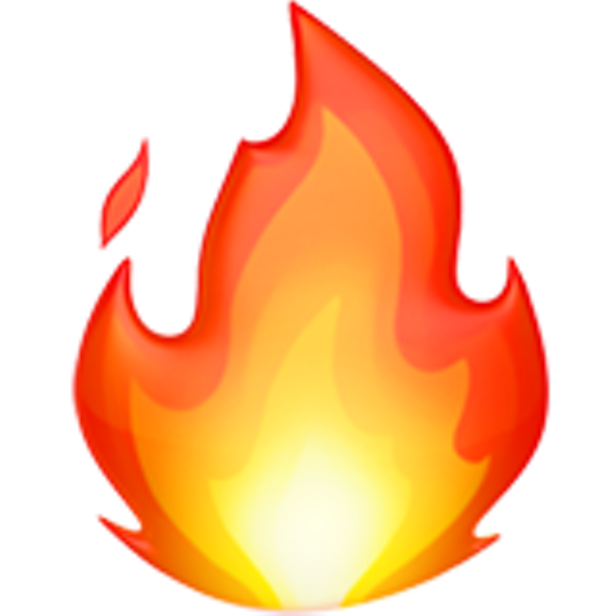
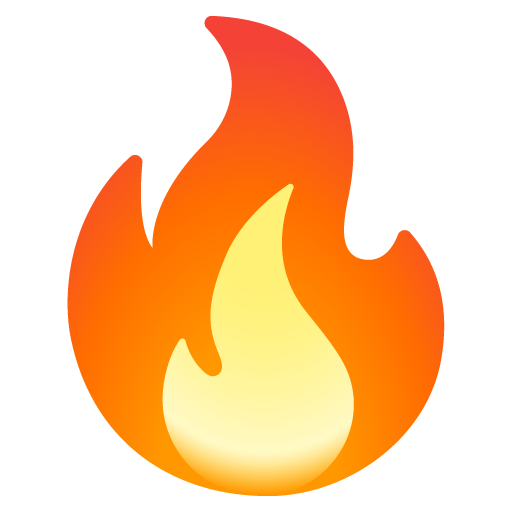
added licenses; updated emojis

diff --git a/LICENSES.md b/LICENSES.md
@@ -1,0 +1,346 @@
+# [CustomTkinter](https://github.com/TomSchimansky/CustomTkinter)
+```
+MIT License
+
+Copyright (c) 2023 Tom Schimansky
+
+Permission is hereby granted, free of charge, to any person obtaining a copy
+of this software and associated documentation files (the "Software"), to deal
+in the Software without restriction, including without limitation the rights
+to use, copy, modify, merge, publish, distribute, sublicense, and/or sell
+copies of the Software, and to permit persons to whom the Software is
+furnished to do so, subject to the following conditions:
+
+The above copyright notice and this permission notice shall be included in all
+copies or substantial portions of the Software.
+
+THE SOFTWARE IS PROVIDED "AS IS", WITHOUT WARRANTY OF ANY KIND, EXPRESS OR
+IMPLIED, INCLUDING BUT NOT LIMITED TO THE WARRANTIES OF MERCHANTABILITY,
+FITNESS FOR A PARTICULAR PURPOSE AND NONINFRINGEMENT. IN NO EVENT SHALL THE
+AUTHORS OR COPYRIGHT HOLDERS BE LIABLE FOR ANY CLAIM, DAMAGES OR OTHER
+LIABILITY, WHETHER IN AN ACTION OF CONTRACT, TORT OR OTHERWISE, ARISING FROM,
+OUT OF OR IN CONNECTION WITH THE SOFTWARE OR THE USE OR OTHER DEALINGS IN THE
+SOFTWARE.
+```
+
+# [Pillow](https://github.com/python-pillow/Pillow)
+```
+The Python Imaging Library (PIL) is
+
+    Copyright © 1997-2011 by Secret Labs AB
+    Copyright © 1995-2011 by Fredrik Lundh and contributors
+
+Pillow is the friendly PIL fork. It is
+
+    Copyright © 2010 by Jeffrey A. Clark and contributors
+
+Like PIL, Pillow is licensed under the open source MIT-CMU License:
+
+By obtaining, using, and/or copying this software and/or its associated
+documentation, you agree that you have read, understood, and will comply
+with the following terms and conditions:
+
+Permission to use, copy, modify and distribute this software and its
+documentation for any purpose and without fee is hereby granted,
+provided that the above copyright notice appears in all copies, and that
+both that copyright notice and this permission notice appear in supporting
+documentation, and that the name of Secret Labs AB or the author not be
+used in advertising or publicity pertaining to distribution of the software
+without specific, written prior permission.
+
+SECRET LABS AB AND THE AUTHOR DISCLAIMS ALL WARRANTIES WITH REGARD TO THIS
+SOFTWARE, INCLUDING ALL IMPLIED WARRANTIES OF MERCHANTABILITY AND FITNESS.
+IN NO EVENT SHALL SECRET LABS AB OR THE AUTHOR BE LIABLE FOR ANY SPECIAL,
+INDIRECT OR CONSEQUENTIAL DAMAGES OR ANY DAMAGES WHATSOEVER RESULTING FROM
+LOSS OF USE, DATA OR PROFITS, WHETHER IN AN ACTION OF CONTRACT, NEGLIGENCE
+OR OTHER TORTIOUS ACTION, ARISING OUT OF OR IN CONNECTION WITH THE USE OR
+PERFORMANCE OF THIS SOFTWARE.
+```
+
+# [Psutil](https://github.com/giampaolo/psutil)
+```
+BSD 3-Clause License
+
+Copyright (c) 2009, Jay Loden, Dave Daeschler, Giampaolo Rodola
+All rights reserved.
+
+Redistribution and use in source and binary forms, with or without modification,
+are permitted provided that the following conditions are met:
+
+ * Redistributions of source code must retain the above copyright notice, this
+   list of conditions and the following disclaimer.
+
+ * Redistributions in binary form must reproduce the above copyright notice,
+   this list of conditions and the following disclaimer in the documentation
+   and/or other materials provided with the distribution.
+
+ * Neither the name of the psutil authors nor the names of its contributors
+   may be used to endorse or promote products derived from this software without
+   specific prior written permission.
+
+THIS SOFTWARE IS PROVIDED BY THE COPYRIGHT HOLDERS AND CONTRIBUTORS "AS IS" AND
+ANY EXPRESS OR IMPLIED WARRANTIES, INCLUDING, BUT NOT LIMITED TO, THE IMPLIED
+WARRANTIES OF MERCHANTABILITY AND FITNESS FOR A PARTICULAR PURPOSE ARE
+DISCLAIMED. IN NO EVENT SHALL THE COPYRIGHT OWNER OR CONTRIBUTORS BE LIABLE FOR
+ANY DIRECT, INDIRECT, INCIDENTAL, SPECIAL, EXEMPLARY, OR CONSEQUENTIAL DAMAGES
+(INCLUDING, BUT NOT LIMITED TO, PROCUREMENT OF SUBSTITUTE GOODS OR SERVICES;
+LOSS OF USE, DATA, OR PROFITS; OR BUSINESS INTERRUPTION) HOWEVER CAUSED AND ON
+ANY THEORY OF LIABILITY, WHETHER IN CONTRACT, STRICT LIABILITY, OR TORT
+(INCLUDING NEGLIGENCE OR OTHERWISE) ARISING IN ANY WAY OUT OF THE USE OF THIS
+SOFTWARE, EVEN IF ADVISED OF THE POSSIBILITY OF SUCH DAMAGE.
+```
+
+# [Opencv Python](https://github.com/opencv/opencv-python/)
+```
+MIT License
+
+Copyright (c) Olli-Pekka Heinisuo
+
+Permission is hereby granted, free of charge, to any person obtaining a copy
+of this software and associated documentation files (the "Software"), to deal
+in the Software without restriction, including without limitation the rights
+to use, copy, modify, merge, publish, distribute, sublicense, and/or sell
+copies of the Software, and to permit persons to whom the Software is
+furnished to do so, subject to the following conditions:
+
+The above copyright notice and this permission notice shall be included in all
+copies or substantial portions of the Software.
+
+THE SOFTWARE IS PROVIDED "AS IS", WITHOUT WARRANTY OF ANY KIND, EXPRESS OR
+IMPLIED, INCLUDING BUT NOT LIMITED TO THE WARRANTIES OF MERCHANTABILITY,
+FITNESS FOR A PARTICULAR PURPOSE AND NONINFRINGEMENT. IN NO EVENT SHALL THE
+AUTHORS OR COPYRIGHT HOLDERS BE LIABLE FOR ANY CLAIM, DAMAGES OR OTHER
+LIABILITY, WHETHER IN AN ACTION OF CONTRACT, TORT OR OTHERWISE, ARISING FROM,
+OUT OF OR IN CONNECTION WITH THE SOFTWARE OR THE USE OR OTHER DEALINGS IN THE
+SOFTWARE.
+```
+
+# [Face Recognition](https://github.com/ageitgey/face_recognition)
+```
+MIT License
+
+Copyright (c) 2021, Adam Geitgey
+
+Permission is hereby granted, free of charge, to any person obtaining a copy of this software and associated documentation files (the "Software"), to deal in the Software without restriction, including without limitation the rights to use, copy, modify, merge, publish, distribute, sublicense, and/or sell copies of the Software, and to permit persons to whom the Software is furnished to do so, subject to the following conditions:
+
+The above copyright notice and this permission notice shall be included in all copies or substantial portions of the Software.
+
+THE SOFTWARE IS PROVIDED "AS IS", WITHOUT WARRANTY OF ANY KIND, EXPRESS OR IMPLIED, INCLUDING BUT NOT LIMITED TO THE WARRANTIES OF MERCHANTABILITY, FITNESS FOR A PARTICULAR PURPOSE AND NONINFRINGEMENT. IN NO EVENT SHALL THE AUTHORS OR COPYRIGHT HOLDERS BE LIABLE FOR ANY CLAIM, DAMAGES OR OTHER LIABILITY, WHETHER IN AN ACTION OF CONTRACT, TORT OR OTHERWISE, ARISING FROM, OUT OF OR IN CONNECTION WITH THE SOFTWARE OR THE USE OR OTHER DEALINGS IN THE SOFTWARE.
+```
+
+# [Pyfiglet](https://github.com/pwaller/pyfiglet)
+```
+Copyright © 2007-2018
+  Christopher Jones <cjones@insub.org>
+  Stefano Rivera <stefano@rivera.za.net>
+  Peter Waller <p@pwaller.net>
+  And various contributors (see git history).
+
+Permission is hereby granted, free of charge, to any person obtaining a copy of
+this software and associated documentation files (the “Software”), to deal in
+the Software without restriction, including without limitation the rights to
+use, copy, modify, merge, publish, distribute, sublicense, and/or sell copies
+of the Software, and to permit persons to whom the Software is furnished to do
+so, subject to the following conditions:
+
+The above copyright notice and this permission notice shall be included in all
+copies or substantial portions of the Software.
+
+THE SOFTWARE IS PROVIDED “AS IS”, WITHOUT WARRANTY OF ANY KIND, EXPRESS OR
+IMPLIED, INCLUDING BUT NOT LIMITED TO THE WARRANTIES OF MERCHANTABILITY,
+FITNESS FOR A PARTICULAR PURPOSE AND NONINFRINGEMENT. IN NO EVENT SHALL THE
+AUTHORS OR COPYRIGHT HOLDERS BE LIABLE FOR ANY CLAIM, DAMAGES OR OTHER
+LIABILITY, WHETHER IN AN ACTION OF CONTRACT, TORT OR OTHERWISE, ARISING FROM,
+OUT OF OR IN CONNECTION WITH THE SOFTWARE OR THE USE OR OTHER
+DEALINGS IN THE SOFTWARE.
+```
+
+# [Sqlalchemy](https://github.com/sqlalchemy/sqlalchemy)
+```
+Copyright 2005-2025 SQLAlchemy authors and contributors <see AUTHORS file>.
+
+Permission is hereby granted, free of charge, to any person obtaining a copy of
+this software and associated documentation files (the "Software"), to deal in
+the Software without restriction, including without limitation the rights to
+use, copy, modify, merge, publish, distribute, sublicense, and/or sell copies
+of the Software, and to permit persons to whom the Software is furnished to do
+so, subject to the following conditions:
+
+The above copyright notice and this permission notice shall be included in all
+copies or substantial portions of the Software.
+
+THE SOFTWARE IS PROVIDED "AS IS", WITHOUT WARRANTY OF ANY KIND, EXPRESS OR
+IMPLIED, INCLUDING BUT NOT LIMITED TO THE WARRANTIES OF MERCHANTABILITY,
+FITNESS FOR A PARTICULAR PURPOSE AND NONINFRINGEMENT. IN NO EVENT SHALL THE
+AUTHORS OR COPYRIGHT HOLDERS BE LIABLE FOR ANY CLAIM, DAMAGES OR OTHER
+LIABILITY, WHETHER IN AN ACTION OF CONTRACT, TORT OR OTHERWISE, ARISING FROM,
+OUT OF OR IN CONNECTION WITH THE SOFTWARE OR THE USE OR OTHER DEALINGS IN THE
+SOFTWARE.
+```
+
+# [Psycopg](https://github.com/psycopg/psycopg2)
+```
+psycopg2 and the LGPL
+---------------------
+
+psycopg2 is free software: you can redistribute it and/or modify it
+under the terms of the GNU Lesser General Public License as published
+by the Free Software Foundation, either version 3 of the License, or
+(at your option) any later version.
+
+psycopg2 is distributed in the hope that it will be useful, but WITHOUT
+ANY WARRANTY; without even the implied warranty of MERCHANTABILITY or
+FITNESS FOR A PARTICULAR PURPOSE.  See the GNU Lesser General Public
+License for more details.
+
+In addition, as a special exception, the copyright holders give
+permission to link this program with the OpenSSL library (or with
+modified versions of OpenSSL that use the same license as OpenSSL),
+and distribute linked combinations including the two.
+
+You must obey the GNU Lesser General Public License in all respects for
+all of the code used other than OpenSSL. If you modify file(s) with this
+exception, you may extend this exception to your version of the file(s),
+but you are not obligated to do so. If you do not wish to do so, delete
+this exception statement from your version. If you delete this exception
+statement from all source files in the program, then also delete it here.
+
+You should have received a copy of the GNU Lesser General Public License
+along with psycopg2 (see the doc/ directory.)
+If not, see <https://www.gnu.org/licenses/>.
+
+
+Alternative licenses
+--------------------
+
+The following BSD-like license applies (at your option) to the files following
+the pattern ``psycopg/adapter*.{h,c}`` and ``psycopg/microprotocol*.{h,c}``:
+
+ Permission is granted to anyone to use this software for any purpose,
+ including commercial applications, and to alter it and redistribute it
+ freely, subject to the following restrictions:
+
+ 1. The origin of this software must not be misrepresented; you must not
+    claim that you wrote the original software. If you use this
+    software in a product, an acknowledgment in the product documentation
+    would be appreciated but is not required.
+
+ 2. Altered source versions must be plainly marked as such, and must not
+    be misrepresented as being the original software.
+
+ 3. This notice may not be removed or altered from any source distribution.
+```
+
+# [Sockets](https://docs.python.org/3/library/socket.html#module-socket)
+```
+Copyright (C) 1995, 1996, 1997, and 1998 WIDE Project.
+All rights reserved.
+
+Redistribution and use in source and binary forms, with or without
+modification, are permitted provided that the following conditions
+are met:
+1. Redistributions of source code must retain the above copyright
+   notice, this list of conditions and the following disclaimer.
+2. Redistributions in binary form must reproduce the above copyright
+   notice, this list of conditions and the following disclaimer in the
+   documentation and/or other materials provided with the distribution.
+3. Neither the name of the project nor the names of its contributors
+   may be used to endorse or promote products derived from this software
+   without specific prior written permission.
+
+THIS SOFTWARE IS PROVIDED BY THE PROJECT AND CONTRIBUTORS "AS IS" AND
+ANY EXPRESS OR IMPLIED WARRANTIES, INCLUDING, BUT NOT LIMITED TO, THE
+IMPLIED WARRANTIES OF MERCHANTABILITY AND FITNESS FOR A PARTICULAR PURPOSE
+ARE DISCLAIMED.  IN NO EVENT SHALL THE PROJECT OR CONTRIBUTORS BE LIABLE
+FOR ANY DIRECT, INDIRECT, INCIDENTAL, SPECIAL, EXEMPLARY, OR CONSEQUENTIAL
+DAMAGES (INCLUDING, BUT NOT LIMITED TO, PROCUREMENT OF SUBSTITUTE GOODS
+OR SERVICES; LOSS OF USE, DATA, OR PROFITS; OR BUSINESS INTERRUPTION)
+HOWEVER CAUSED AND ON ANY THEORY OF LIABILITY, WHETHER IN CONTRACT, STRICT
+LIABILITY, OR TORT (INCLUDING NEGLIGENCE OR OTHERWISE) ARISING IN ANY WAY
+OUT OF THE USE OF THIS SOFTWARE, EVEN IF ADVISED OF THE POSSIBILITY OF
+SUCH DAMAGE.
+```
+
+# [Noto Color Emoji](https://fonts.google.com/noto/specimen/Noto+Color+Emoji/license)
+```
+Copyright 2021 Google Inc. All Rights Reserved.
+This Font Software is licensed under the SIL Open Font License, Version 1.1 . This license is copied below, and is also available with a FAQ at: https://openfontlicense.org
+
+SIL OPEN FONT LICENSE Version 1.1 - 26 February 2007
+
+PREAMBLE
+The goals of the Open Font License (OFL) are to stimulate worldwide development of collaborative font projects, to support the font creation efforts of academic and linguistic communities, and to provide a free and open framework in which fonts may be shared and improved in partnership with others.
+
+The OFL allows the licensed fonts to be used, studied, modified and redistributed freely as long as they are not sold by themselves. The fonts, including any derivative works, can be bundled, embedded, redistributed and/or sold with any software provided that any reserved names are not used by derivative works. The fonts and derivatives, however, cannot be released under any other type of license. The requirement for fonts to remain under this license does not apply to any document created using the fonts or their derivatives.
+
+DEFINITIONS
+"Font Software" refers to the set of files released by the Copyright Holder(s) under this license and clearly marked as such. This may include source files, build scripts and documentation.
+
+"Reserved Font Name" refers to any names specified as such after the copyright statement(s).
+
+"Original Version" refers to the collection of Font Software components as distributed by the Copyright Holder(s).
+"Modified Version" refers to any derivative made by adding to, deleting, or substituting -- in part or in whole -- any of the components of the Original Version, by changing formats or by porting the Font Software to a new environment.
+
+"Author" refers to any designer, engineer, programmer, technical writer or other person who contributed to the Font Software.
+
+PERMISSION & CONDITIONS
+Permission is hereby granted, free of charge, to any person obtaining a copy of the Font Software, to use, study, copy, merge, embed, modify, redistribute, and sell modified and unmodified copies of the Font Software, subject to the following conditions:
+
+Neither the Font Software nor any of its individual components, in Original or Modified Versions, may be sold by itself.
+Original or Modified Versions of the Font Software may be bundled, redistributed and/or sold with any software, provided that each copy contains the above copyright notice and this license. These can be included either as stand-alone text files, human-readable headers or in the appropriate machine-readable metadata fields within text or binary files as long as those fields can be easily viewed by the user.
+No Modified Version of the Font Software may use the Reserved Font Name(s) unless explicit written permission is granted by the corresponding Copyright Holder. This restriction only applies to the primary font name as presented to the users.
+The name(s) of the Copyright Holder(s) or the Author(s) of the Font Software shall not be used to promote, endorse or advertise any Modified Version, except to acknowledge the contribution(s) of the Copyright Holder(s) and the Author(s) or with their explicit written permission.
+The Font Software, modified or unmodified, in part or in whole, must be distributed entirely under this license, and must not be distributed under any other license. The requirement for fonts to remain under this license does not apply to any document created using the Font Software.
+TERMINATION
+This license becomes null and void if any of the above conditions are not met.
+
+DISCLAIMER
+THE FONT SOFTWARE IS PROVIDED "AS IS", WITHOUT WARRANTY OF ANY KIND, EXPRESS OR IMPLIED, INCLUDING BUT NOT LIMITED TO ANY WARRANTIES OF MERCHANTABILITY, FITNESS FOR A PARTICULAR PURPOSE AND NONINFRINGEMENT OF COPYRIGHT, PATENT, TRADEMARK, OR OTHER RIGHT. IN NO EVENT SHALL THE COPYRIGHT HOLDER BE LIABLE FOR ANY CLAIM, DAMAGES OR OTHER LIABILITY, INCLUDING ANY GENERAL, SPECIAL, INDIRECT, INCIDENTAL, OR CONSEQUENTIAL DAMAGES, WHETHER IN AN ACTION OF CONTRACT, TORT OR OTHERWISE, ARISING FROM, OUT OF THE USE OR INABILITY TO USE THE FONT SOFTWARE OR FROM OTHER DEALINGS IN THE FONT SOFTWARE.
+```
+
+# [Python](https://docs.python.org/3/license.html)
+
+`Copyright © 2001-2024 Python Software Foundation; All Rights Reserved`
+
+```
+1. This LICENSE AGREEMENT is between the Python Software Foundation ("PSF"), and
+   the Individual or Organization ("Licensee") accessing and otherwise using this
+   software ("Python") in source or binary form and its associated documentation.
+
+2. Subject to the terms and conditions of this License Agreement, PSF hereby
+   grants Licensee a nonexclusive, royalty-free, world-wide license to reproduce,
+   analyze, test, perform and/or display publicly, prepare derivative works,
+   distribute, and otherwise use Python alone or in any derivative
+   version, provided, however, that PSF's License Agreement and PSF's notice of
+   copyright, i.e., "Copyright © 2001-2024 Python Software Foundation; All Rights
+   Reserved" are retained in Python alone or in any derivative version
+   prepared by Licensee.
+
+3. In the event Licensee prepares a derivative work that is based on or
+   incorporates Python or any part thereof, and wants to make the
+   derivative work available to others as provided herein, then Licensee hereby
+   agrees to include in any such work a brief summary of the changes made to Python.
+
+4. PSF is making Python available to Licensee on an "AS IS" basis.
+   PSF MAKES NO REPRESENTATIONS OR WARRANTIES, EXPRESS OR IMPLIED.  BY WAY OF
+   EXAMPLE, BUT NOT LIMITATION, PSF MAKES NO AND DISCLAIMS ANY REPRESENTATION OR
+   WARRANTY OF MERCHANTABILITY OR FITNESS FOR ANY PARTICULAR PURPOSE OR THAT THE
+   USE OF PYTHON WILL NOT INFRINGE ANY THIRD PARTY RIGHTS.
+
+5. PSF SHALL NOT BE LIABLE TO LICENSEE OR ANY OTHER USERS OF PYTHON
+   FOR ANY INCIDENTAL, SPECIAL, OR CONSEQUENTIAL DAMAGES OR LOSS AS A RESULT OF
+   MODIFYING, DISTRIBUTING, OR OTHERWISE USING PYTHON, OR ANY DERIVATIVE
+   THEREOF, EVEN IF ADVISED OF THE POSSIBILITY THEREOF.
+
+6. This License Agreement will automatically terminate upon a material breach of
+   its terms and conditions.
+
+7. Nothing in this License Agreement shall be deemed to create any relationship
+   of agency, partnership, or joint venture between PSF and Licensee.  This License
+   Agreement does not grant permission to use PSF trademarks or trade name in a
+   trademark sense to endorse or promote products or services of Licensee, or any
+   third party.
+
+8. By copying, installing or otherwise using Python, Licensee agrees
+   to be bound by the terms and conditions of this License Agreement.
+```
